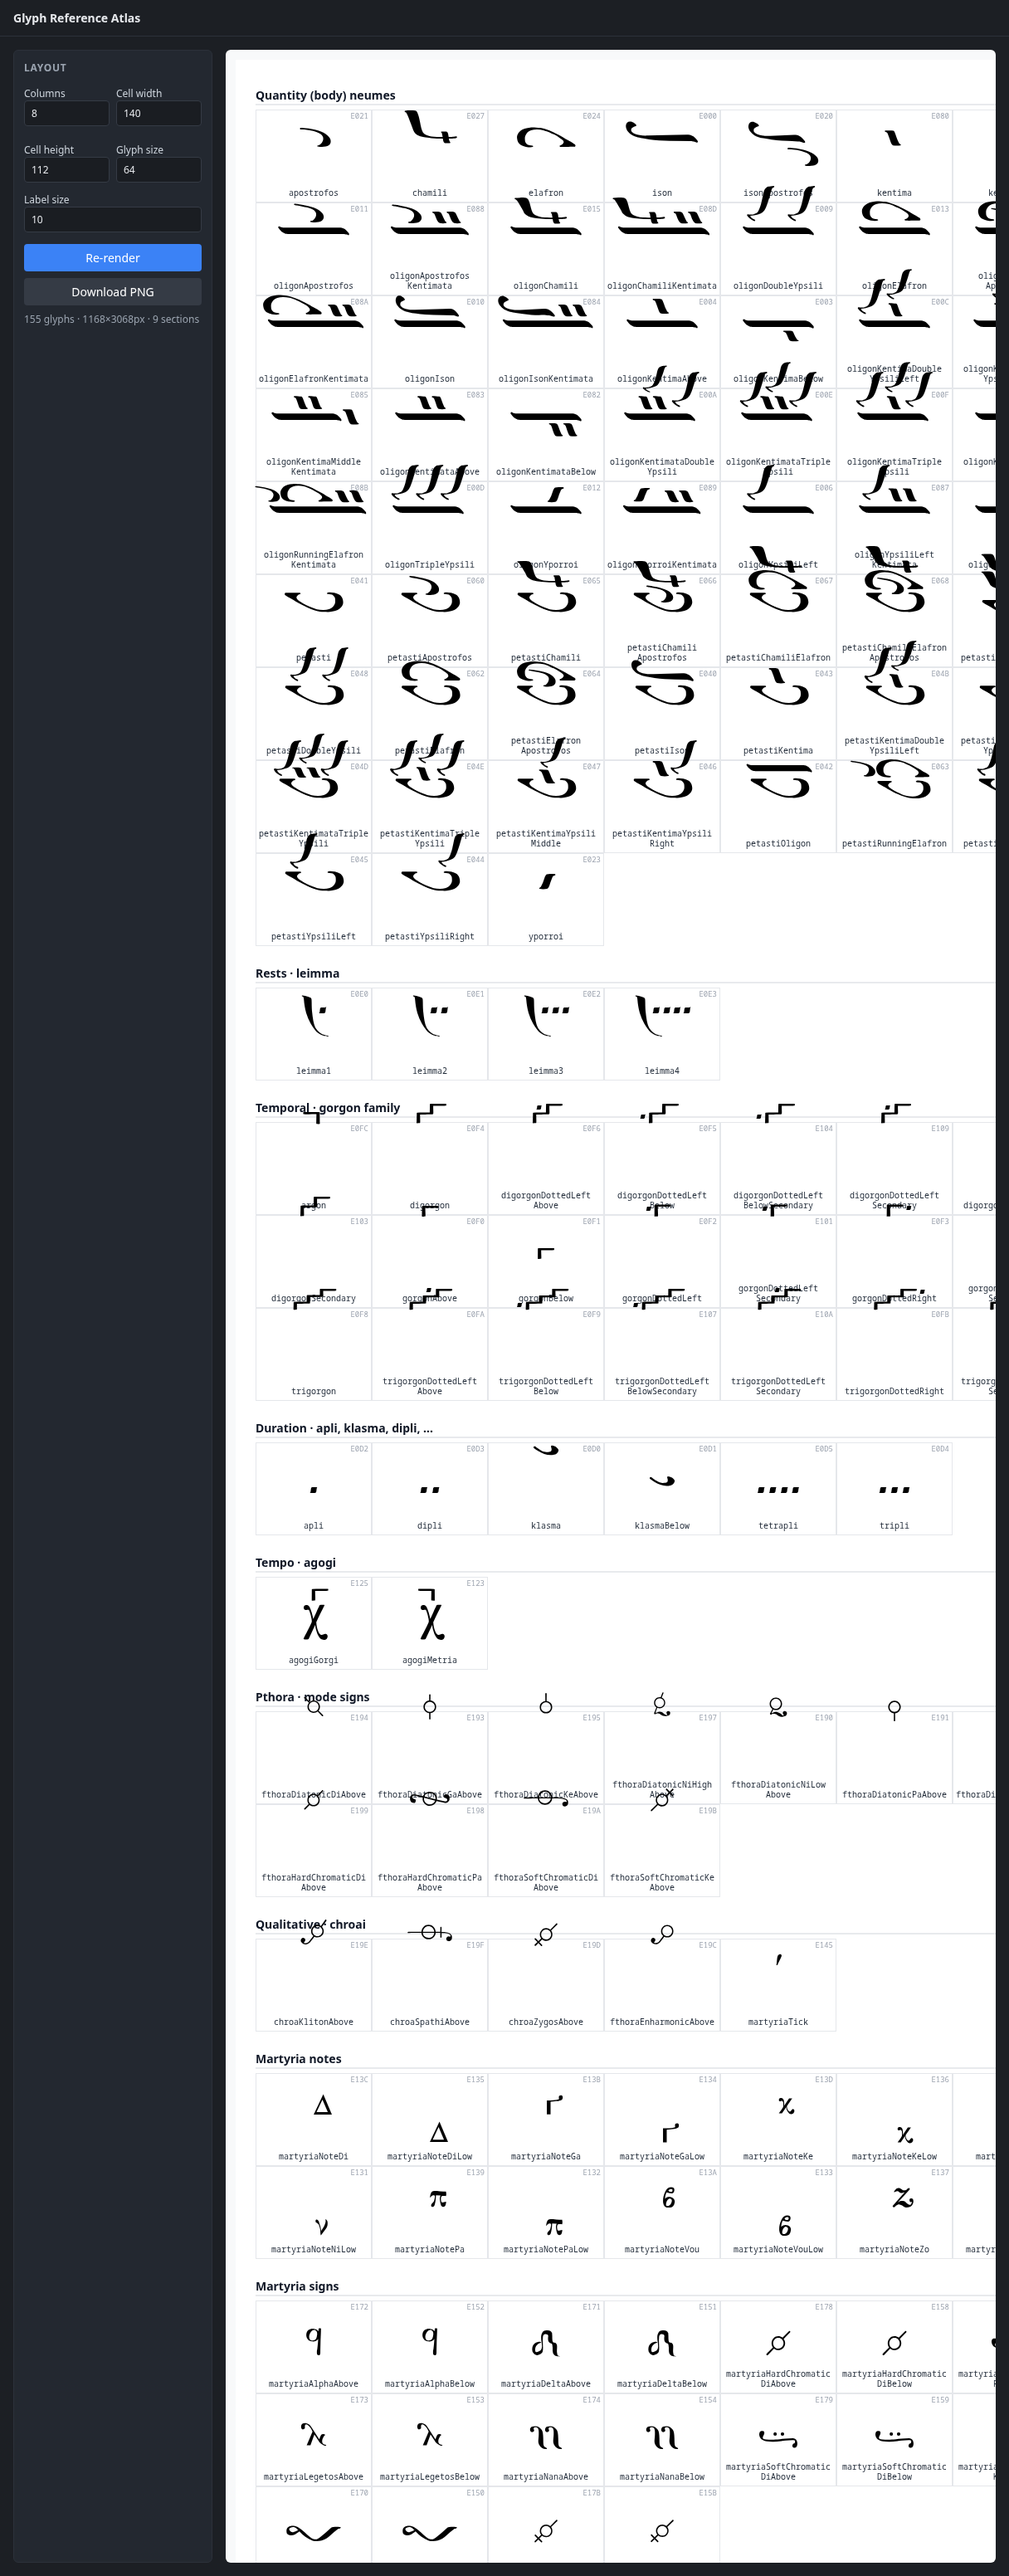
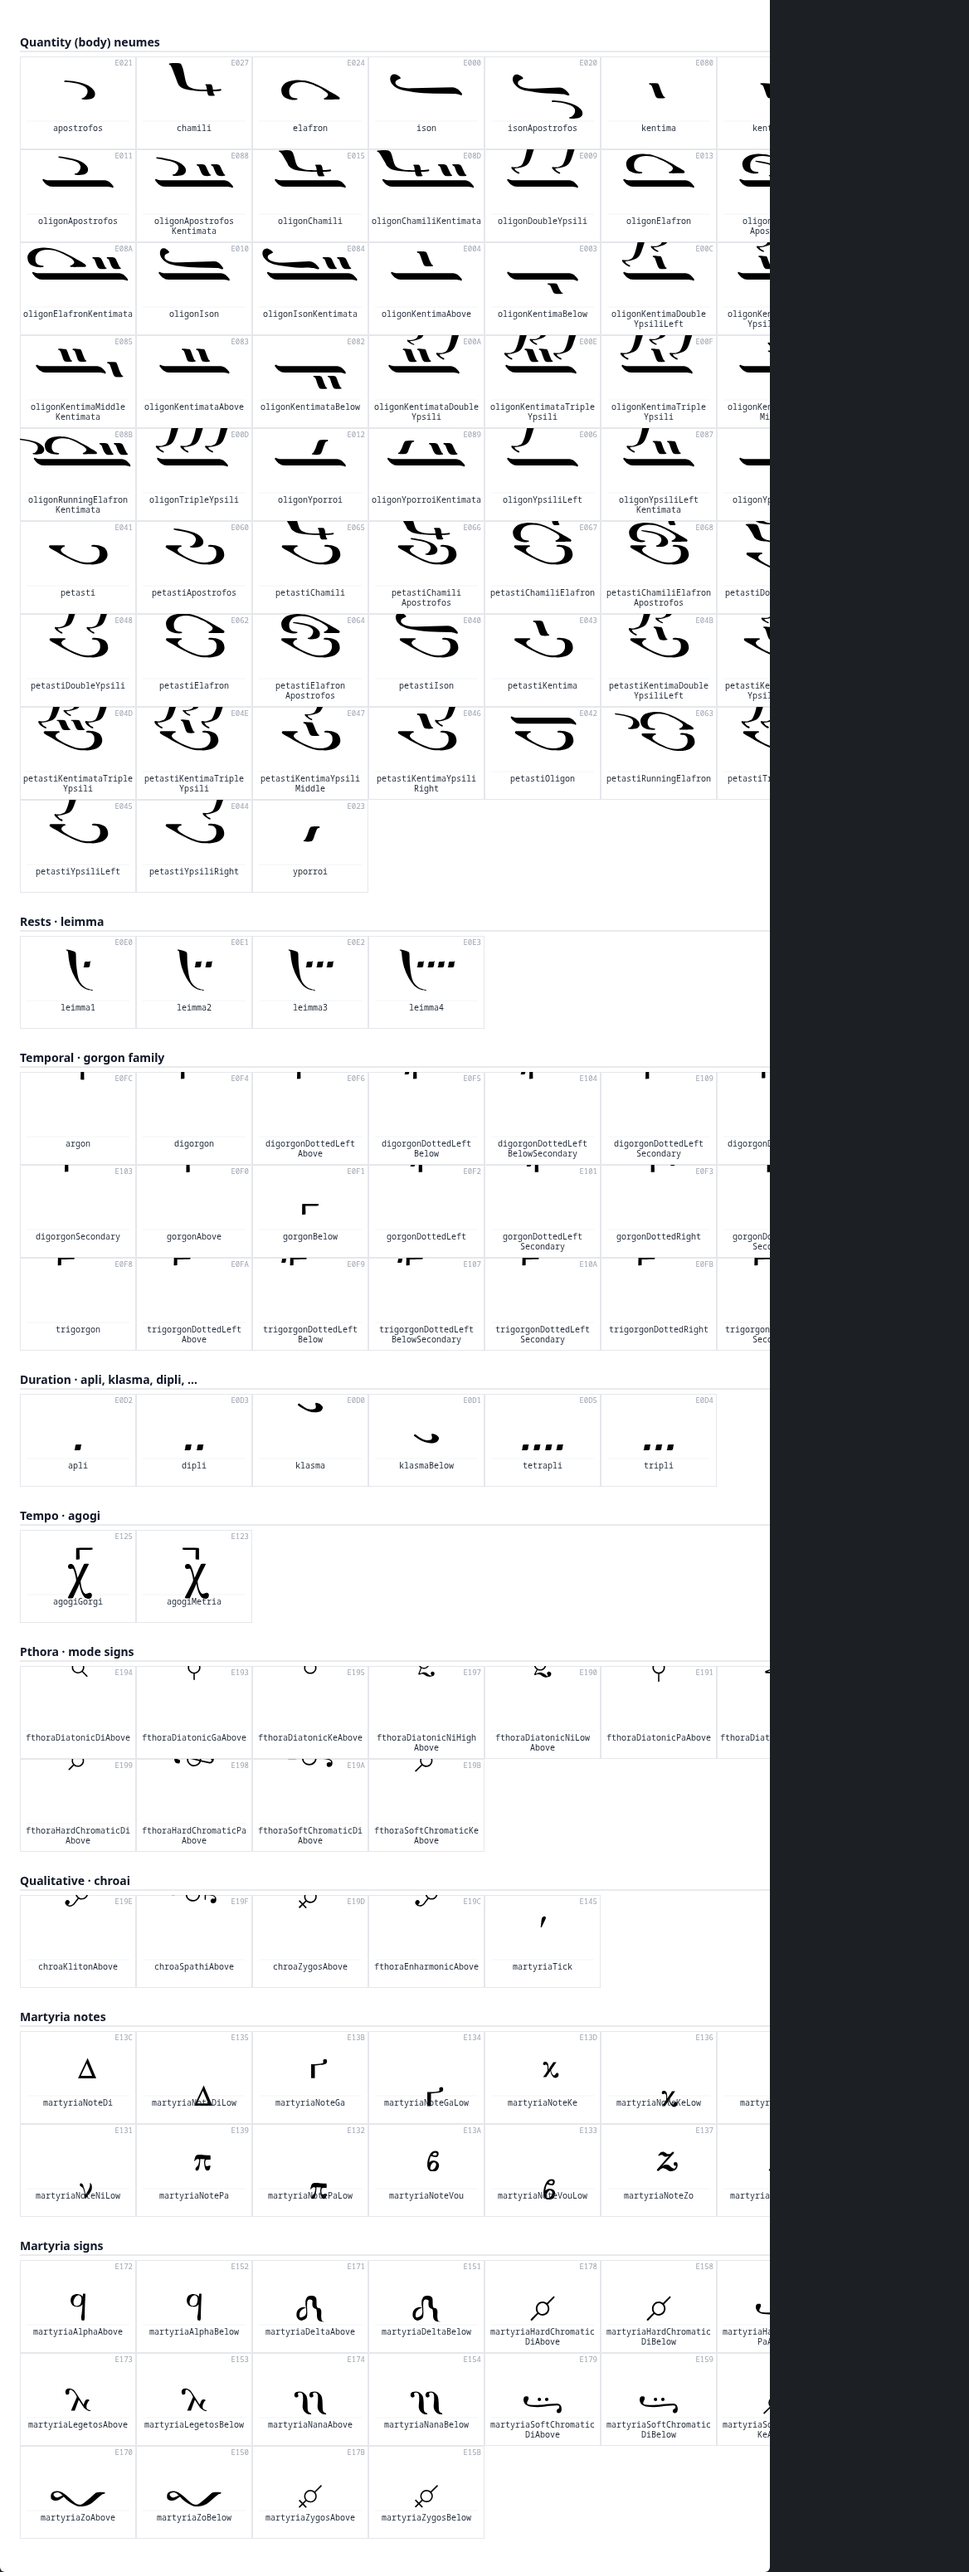
Fix atlas clipping and glyph-text overlap

diff --git a/web/ocr/atlas/atlas_render.js b/web/ocr/atlas/atlas_render.js
@@ -44,39 +44,58 @@ function drawSection(ctx, section, layout, fontFamily) {
 }
 
 function drawCell(ctx, cell, config, fontFamily) {
-  // Cell border (very subtle so the model can see grid structure)
+  ctx.save();
+  ctx.beginPath();
+  ctx.rect(cell.x, cell.y, cell.cellWidth, cell.cellHeight);
+  ctx.clip();
+
+  // Cell border
   ctx.strokeStyle = '#e5e7eb';
   ctx.lineWidth = 1;
   ctx.strokeRect(cell.x + 0.5, cell.y + 0.5, cell.cellWidth - 1, cell.cellHeight - 1);
 
-  // Glyph
+  const glyphZone = cell.y + Math.round(cell.cellHeight * 0.62);
+  const labelZone = cell.y + Math.round(cell.cellHeight * 0.70);
+
+  // Thin separator between glyph and label zone
+  ctx.strokeStyle = '#f3f4f6';
+  ctx.beginPath();
+  ctx.moveTo(cell.x + 8, labelZone);
+  ctx.lineTo(cell.x + cell.cellWidth - 8, labelZone);
+  ctx.stroke();
+
+  // Glyph — anchored so it stays within the glyph zone
   if (cell.character) {
     ctx.fillStyle = '#000000';
     ctx.font = `${config.glyphSize}px "${fontFamily}"`;
     ctx.textAlign = 'center';
-    ctx.textBaseline = 'middle';
+    ctx.textBaseline = 'alphabetic';
     const cx = cell.x + cell.cellWidth / 2;
-    const cy = cell.y + config.glyphSize / 2 + 6;
-    ctx.fillText(cell.character, cx, cy);
+    const glyphBaseline = glyphZone - Math.round(config.glyphSize * 0.12);
+    ctx.fillText(cell.character, cx, glyphBaseline);
   }
 
-  // Label (wrapped if long)
+  // Label — wrapped, clipped to label zone
   ctx.fillStyle = '#1f2937';
   ctx.font = `${config.labelSize}px ui-monospace, "SF Mono", Menlo, Consolas, monospace`;
   ctx.textAlign = 'center';
-  ctx.textBaseline = 'bottom';
-  const lines = wrapGlyphName(cell.glyphName, Math.floor(cell.cellWidth / (config.labelSize * 0.62)));
+  ctx.textBaseline = 'top';
+  const maxChars = Math.floor(cell.cellWidth / (config.labelSize * 0.62));
+  const lines = wrapGlyphName(cell.glyphName, maxChars);
   const lineHeight = config.labelSize + 2;
-  const labelBottom = cell.y + cell.cellHeight - 6;
-  for (let i = 0; i < lines.length; i += 1) {
-    const y = labelBottom - (lines.length - 1 - i) * lineHeight;
-    ctx.fillText(lines[i], cell.x + cell.cellWidth / 2, y);
+  const maxLabelLines = Math.floor((cell.y + cell.cellHeight - labelZone - 4) / lineHeight);
+  const visibleLines = lines.slice(0, maxLabelLines);
+  const labelY0 = labelZone + 4;
+  for (let i = 0; i < visibleLines.length; i += 1) {
+    ctx.fillText(visibleLines[i], cell.x + cell.cellWidth / 2, labelY0 + i * lineHeight);
   }
 
-  // Codepoint hint (faint, top-right of cell)
+  // Codepoint hint (top-right of cell)
   ctx.fillStyle = '#9ca3af';
-  ctx.font = `9px ui-monospace, "SF Mono", monospace`;
+  ctx.font = '9px ui-monospace, "SF Mono", monospace';
   ctx.textAlign = 'right';
   ctx.textBaseline = 'top';
   ctx.fillText(cell.codepoint.replace('U+', ''), cell.x + cell.cellWidth - 4, cell.y + 4);
+
+  ctx.restore();
 }

diff --git a/web/ocr/atlas/atlas_layout.js b/web/ocr/atlas/atlas_layout.js
@@ -30,13 +30,13 @@ const ROLE_LABELS = Object.freeze({
 const DEFAULTS = Object.freeze({
   columns: 8,
   cellWidth: 140,
-  cellHeight: 112,
-  glyphSize: 64,
+  cellHeight: 130,
+  glyphSize: 56,
   labelSize: 10,
-  sectionGap: 22,
+  sectionGap: 24,
   headerHeight: 28,
   marginX: 24,
-  marginY: 32,
+  marginY: 40,
 });
 
 export function planAtlas(options = {}) {
